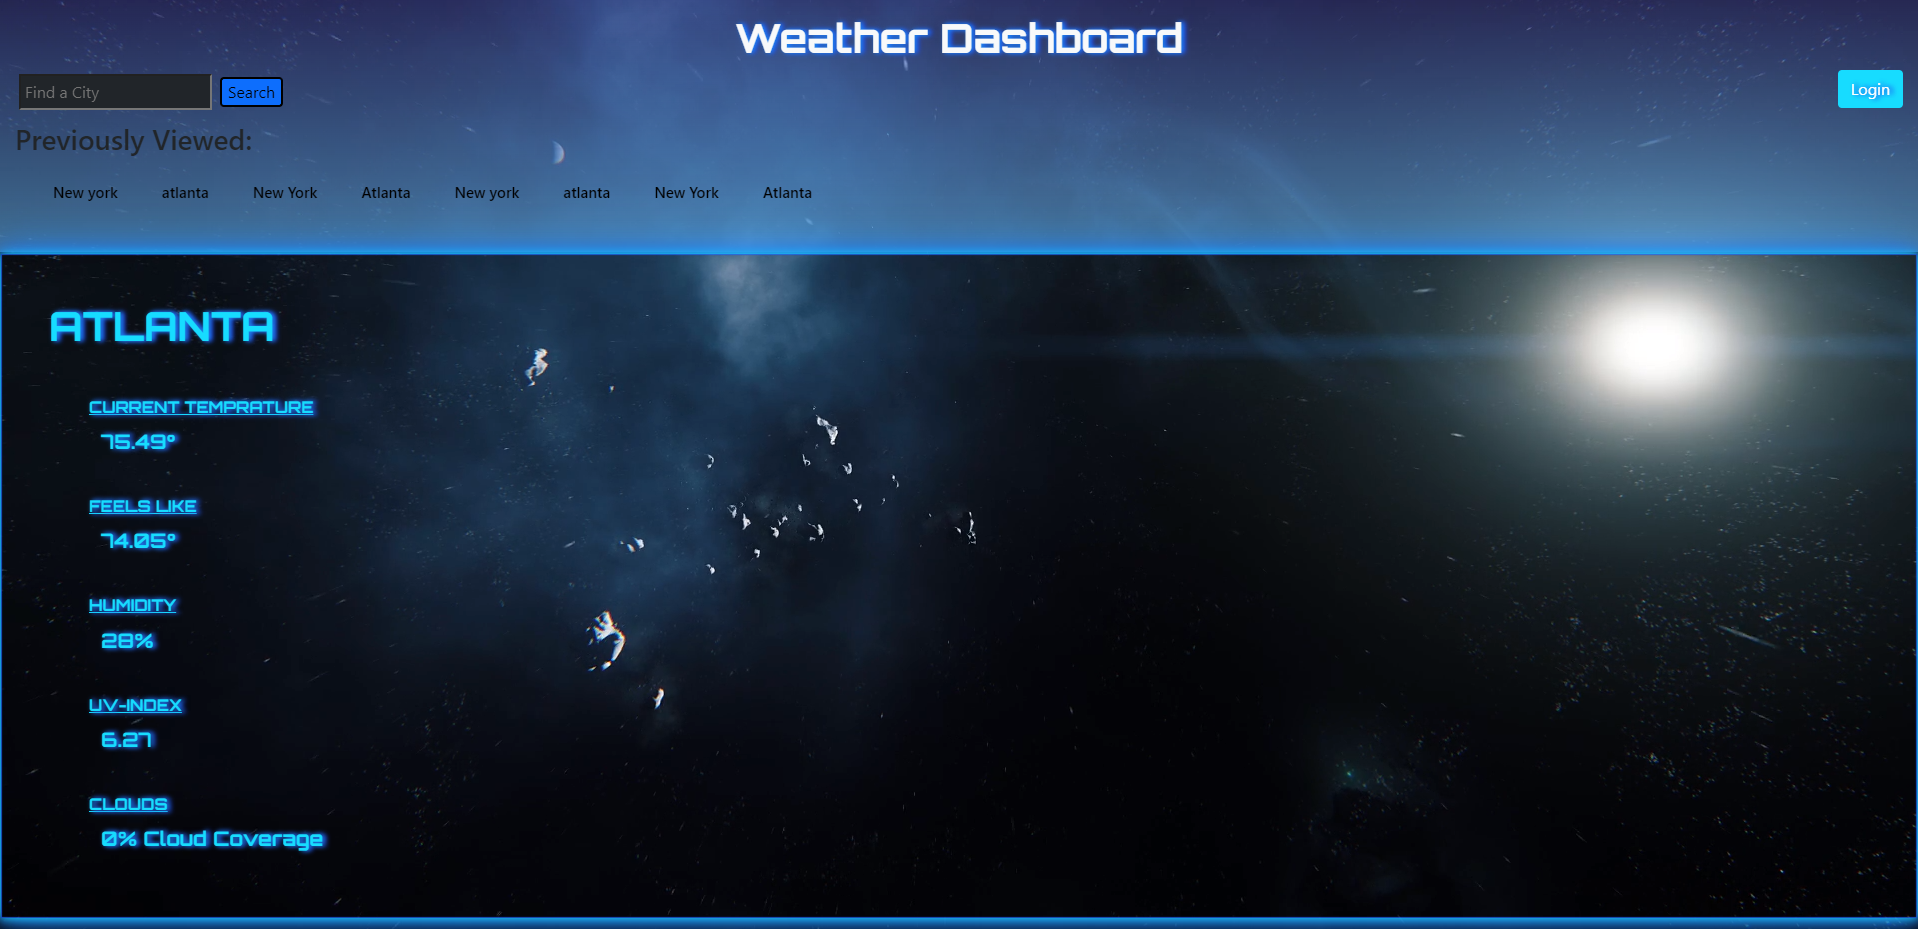
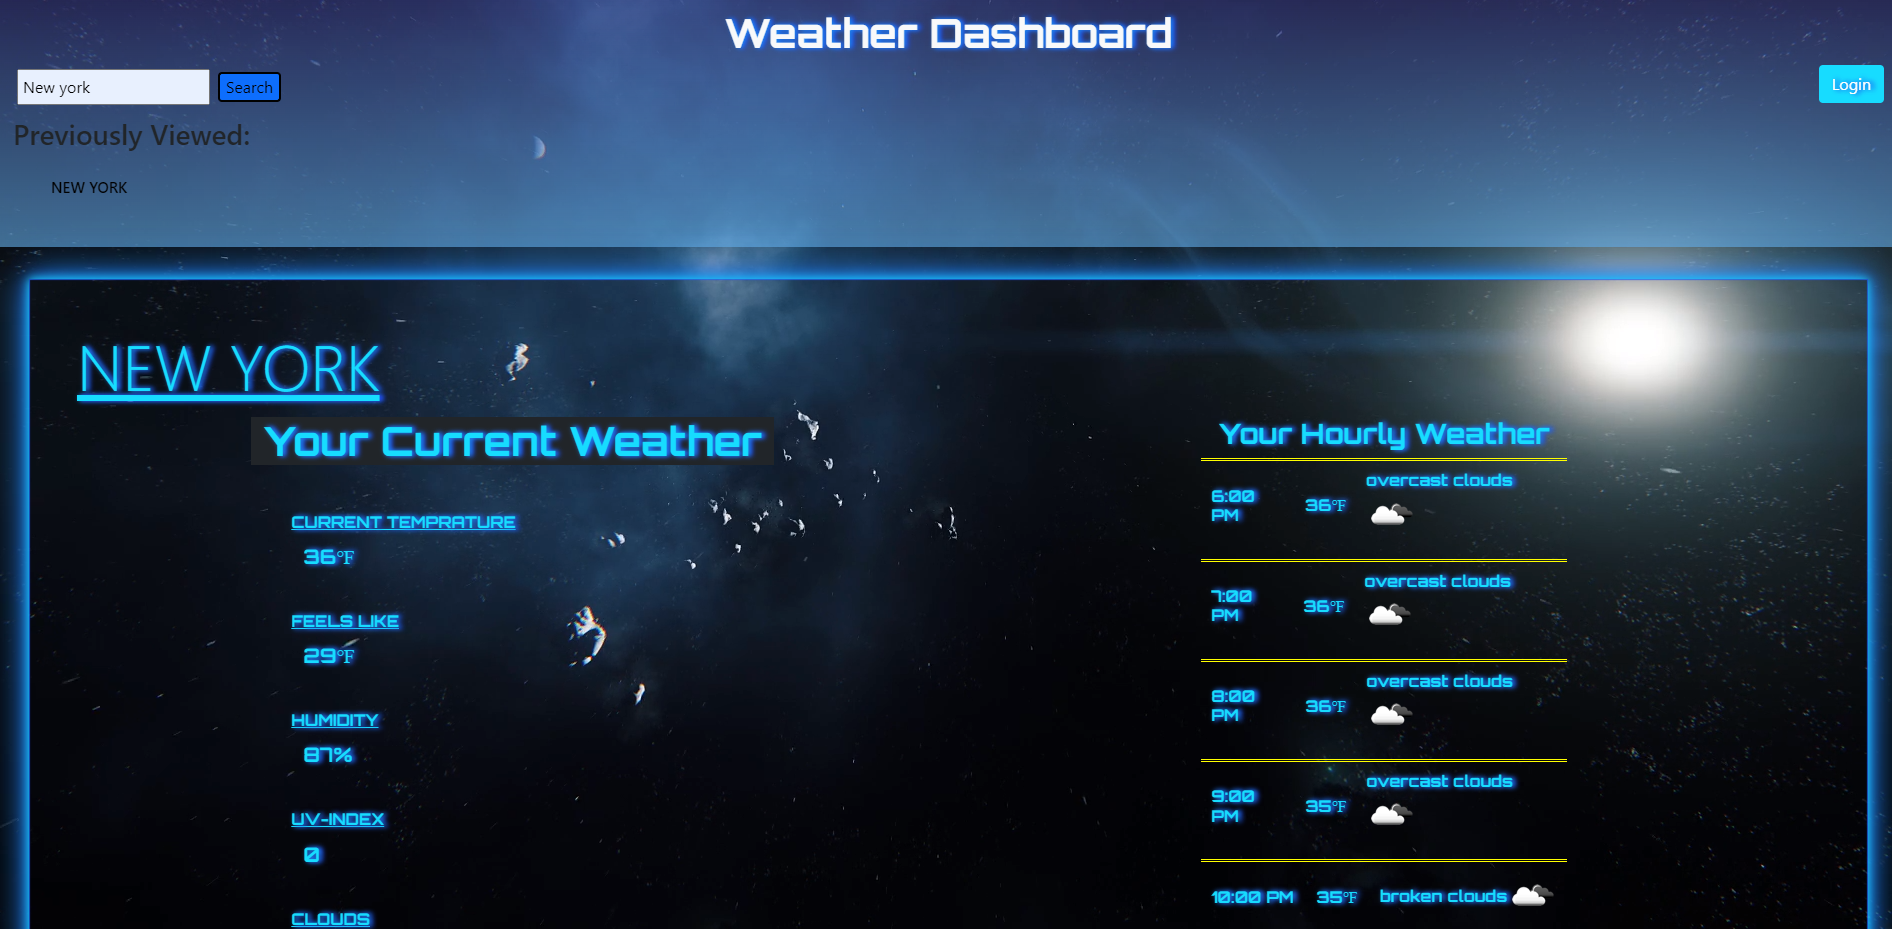
Removed hourly temp and combined with hourly weather, added and modified 5 day forecast

diff --git a/ClientApp/src/components/FiveDay.jsx b/ClientApp/src/components/FiveDay.jsx
@@ -1,11 +1,44 @@
 import React from "react";
 
 function FiveDay(props) {
-    const forecast = props.data.daily
+    const forecast = props.data.daily.slice(0, 5);
+    console.log(forecast)
 
     return (
         <div className="fiveDayWrapper">
-
+            <h1 className="display-5 font text-end"><u>Your 5 day forcast</u></h1>
+            <div className="row neon-row justify-content-around m-1 p-5">
+                {forecast.map((item, index) => (
+                    <div key={index} className="card bg-transparent neon-card m-5" style={{ width: "13rem" }}>
+                        <ul className="list-group bg-dark list-group-flush test bg-transparent">
+                            <li className="list-group-item item-1 bg-transparent neon">
+                                {new Date(item.dt * 1000).toDateString()}
+                            </li>
+                            <li className="list-group-item item-2 bg-transparent neon">
+                                {item.weather[0].description}
+                                <img src={`https://openweathermap.org/img/w/${item.weather[0].icon}.png`} />
+                            </li>
+                            <li className="list-group-item item-3 bg-transparent neon">
+                                Temp High: {Math.round(item.temp.max)}<span>&#8457;</span>
+                            </li>
+                            <li className="list-group-item item-4 bg-transparent neon">
+                                Sunrise {new Date(item.sunrise * 1000).toLocaleTimeString([], {
+                                    hour: "numeric",
+                                    minute: "2-digit",
+                                    hour12: true
+                                })}
+                            </li>
+                            <li className="list-group-item item-5 bg-transparent neon">
+                                Sunset {new Date(item.sunset * 1000).toLocaleTimeString([], {
+                                    hour: "numeric",
+                                    minute: "2-digit",
+                                    hour12: true
+                                })}
+                            </li>
+                        </ul>
+                    </div>
+                ))}
+            </div>
         </div>
     )
 }

diff --git a/ClientApp/src/components/CurrentWeather.jsx b/ClientApp/src/components/CurrentWeather.jsx
@@ -1,5 +1,4 @@
 import React from "react";
-import HourlyTemp from "./HourlyTemp";
 import HourlyWeather from "./HourlyWeather";
 
 function CurrentWeather(props) {
@@ -8,16 +7,17 @@ function CurrentWeather(props) {
     const city = JSON.parse(localStorage.getItem("currentCity"));
     return (
         <div className="currentWrapper">
-            <h1 className="text-center font bg-dark">Your Current Weather</h1>
+            
             <h1 className="display-3"><u>{city}</u></h1>
-            <div className="d-flex flex-row justify-content-center">
+            <div className="d-flex flex-row justify-content-around">
               
                 <div className="d-flex flex-column currentBox">
+                <h1 className="text-center font bg-dark">Your Current Weather</h1>
                     <ul className="font data-list">
                         <h2 className="font"><u>Current Temprature</u></h2>
-                            <li className="data">{current.temp}<span>&#8457;</span></li>
+                            <li className="data">{Math.round(current.temp)}<span>&#8457;</span></li>
                         <h2 className="font"><u>Feels Like</u></h2>
-                            <li className="data">{current.feels_like}<span>&#8457;</span></li>
+                            <li className="data">{Math.round(current.feels_like)}<span>&#8457;</span></li>
                         <h2 className="font"><u>Humidity</u></h2>
                             <li className="data">{current.humidity}%</li>
                         <h2 className="font"><u>UV-Index</u></h2>
@@ -26,9 +26,7 @@ function CurrentWeather(props) {
                             <li className="data">{current.clouds}% Cloud Coverage</li>
                     </ul>
                 </div>
-                <div className="d-flex flex-column currentBox">
-                    <HourlyTemp hourly={hourly} />
-                </div>
+
                 <div className="d-flex flex-column currentBox">
                     <HourlyWeather hourly={hourly} />
                 </div>

diff --git a/ClientApp/src/custom.css b/ClientApp/src/custom.css
@@ -105,6 +105,7 @@ code {
   text-shadow: var(--textshadow);
 }
 
+
 .currentWrapper ul li {
   color: var(--primary);
   text-shadow: var(--textshadow);
@@ -147,6 +148,65 @@ code {
  justify-content: center;
  margin: 2em;
  padding: 3em;
+}
+
+.fiveDayWrapper .card ul li:first-child {
+  font-size: 2.5rem;
+  background-color: gray;
+}
+
+.forecast {
+  display: flex;
+  flex-direction: column;
+  flex-wrap: wrap;
+}
+.test {
+  display: flex;
+  justify-content: center;
+  min-width: 100%;
+  min-height: 100%;
+}
+
+.test:first-child {
+  font-size: 40px;
+}
+
+.bg-transparent {
+  background-color: transparent;
+}
+
+.neon-row {
+  box-shadow:
+      0 0 0.1px 0.4px #17dcff,
+      0 0 0.4px 0.6px #1e91f0,
+      0 0 4px 0.4px #1e3df0,
+      inset 0 0 1.5px 0.4px #1e3df0,
+      inset 0 0 0.4px 0.2px #1e91f0,
+      inset 0 0 0.5px 0.2px #17dcff;
+  border-radius: 1.5rem;
+}
+
+.neon-card {
+  display: flex;
+  justify-content: center;
+  align-items: center;
+  box-shadow:
+      0 0 0.1px 0.4px #17dcff,
+      0 0 0.4px 0.6px #1e91f0,
+      0 0 4px 0.4px #1e3df0,
+      inset 0 0 0.5px 0.2px #1e3df0,
+      inset 0 0 0.2px 0.1px #1e91f0,
+      inset 0 0 0.5px 0.2px #17dcff;
+  min-width: 20vw;
+  min-height: 30vh;
+}
+
+.neon {
+  text-align: center;
+  color: #17dcff;
+  font-size: 30px;
+  text-shadow:
+      .1vw 0vw .25vw #1e91f0, .2vw 0vw .25vw #1e3df0;
 }
 
 

diff --git a/ClientApp/src/components/HourlyWeather.jsx b/ClientApp/src/components/HourlyWeather.jsx
@@ -14,6 +14,7 @@ function HourlyWeather(props) {
                             hour12: true
                         })}
                     </h6>
+                    <h6 className="font table-cell">{Math.round(item.temp)}<span>&#8457;</span></h6>
                     <h6 className="font table-cell">
                         {item.weather[0].description} 
                         <img src={`https://openweathermap.org/img/w/${item.weather[0].icon}.png`} />
